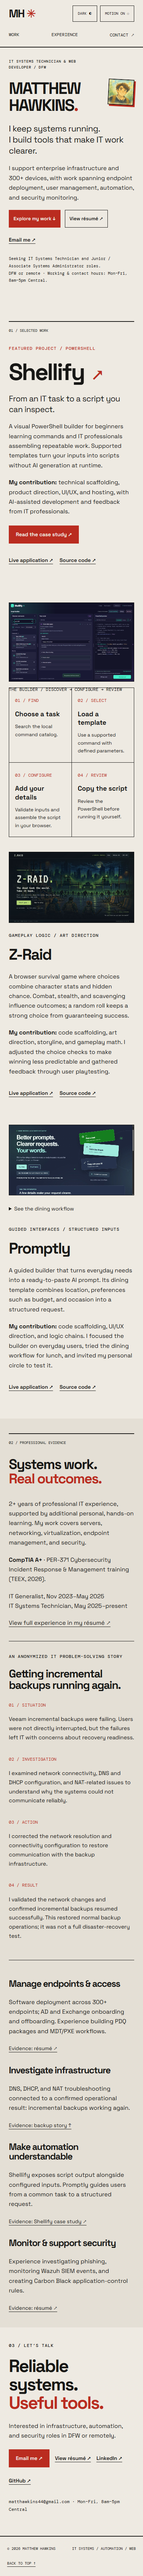
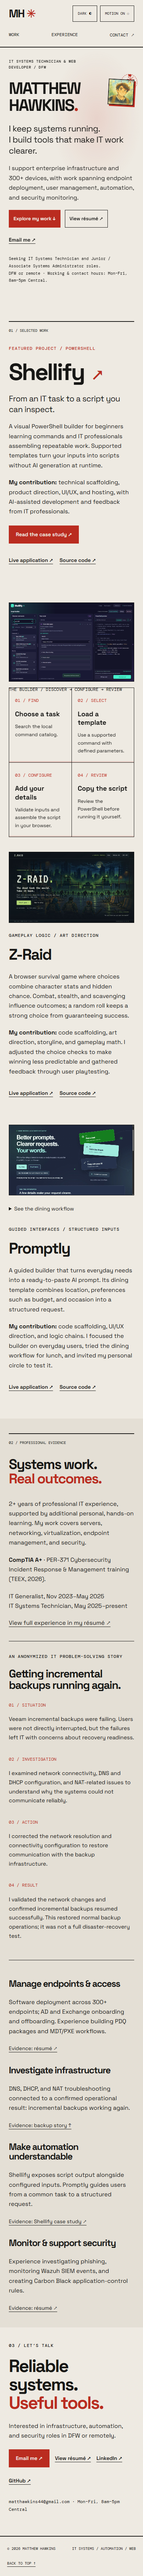
Restore restrained editorial motion and accessible animation controls

diff --git a/style.css b/style.css
@@ -624,3 +624,126 @@ footer {
     object-fit:contain;
     margin:0
 }
+
+/* Editorial motion: a quiet backdrop, the original star, and purposeful feedback. */
+.hero, .case-hero {
+    position: relative;
+    isolation: isolate;
+}
+.hero::before, .case-hero::before {
+    content: '';
+    position: absolute;
+    inset: 12% 2% 8% 48%;
+    z-index: -1;
+    pointer-events: none;
+    background: radial-gradient(ellipse, color-mix(in srgb, var(--red) 12%, transparent), transparent 68%);
+    animation: ambient-drift 18s ease-in-out infinite alternate;
+}
+.hero::after, .case-hero::after {
+    content: '';
+    position: absolute;
+    inset: 18px 5% 24px 58%;
+    z-index: -1;
+    pointer-events: none;
+    background-image: radial-gradient(var(--ink) .7px, transparent .7px);
+    background-size: 24px 24px;
+    opacity: .09;
+    mask-image: radial-gradient(ellipse, #000, transparent 70%);
+}
+.portrait::before {
+    content: '';
+    position: absolute;
+    width: 108px;
+    height: 108px;
+    right: -19px;
+    top: -34px;
+    border: 1px dashed var(--red);
+    border-radius: 50%;
+    pointer-events: none;
+    animation: accent-orbit 40s linear infinite;
+    background: radial-gradient(circle at 50% 3%, var(--red) 0 4px, transparent 5px);
+}
+.portrait::after {
+    content: '✳';
+    position: absolute;
+    right: 10px;
+    top: -30px;
+    color: var(--red);
+    font-size: 58px;
+    line-height: 1;
+    pointer-events: none;
+    animation: accent-orbit 60s linear infinite reverse;
+}
+.reading-progress {
+    position: fixed;
+    inset: 0 0 auto;
+    height: 3px;
+    background: var(--red);
+    transform-origin: left;
+    z-index: 20;
+    pointer-events: none;
+}
+.wordmark span { transition: transform .5s ease; }
+.wordmark:hover span, .wordmark:focus-visible span { transform: rotate(90deg); }
+.site-header nav a { position: relative; }
+.site-header nav a::after {
+    content: '';
+    position: absolute;
+    bottom: 4px;
+    left: 0;
+    width: 100%;
+    height: 2px;
+    background: var(--red);
+    transform: scaleX(0);
+    transform-origin: left;
+    transition: transform .22s ease;
+}
+.site-header nav a:hover::after, .site-header nav a:focus-visible::after { transform: scaleX(1); }
+.featured figure img, .supporting-grid > article > img {
+    transition: transform .35s ease, box-shadow .35s ease;
+}
+.featured figure:hover img, .featured figure:focus-within img,
+.supporting-grid > article:hover > img, .supporting-grid > article:focus-within > img {
+    transform: translateY(-4px);
+    box-shadow: 5px 5px 0 color-mix(in srgb, var(--red) 45%, transparent);
+}
+.logic-chain li::before {
+    content: '';
+    position: absolute;
+    left: 0;
+    bottom: 0;
+    width: 100%;
+    height: 3px;
+    background: var(--red);
+    opacity: .15;
+    animation: workflow-step 12s ease-in-out infinite;
+}
+.logic-chain li:nth-child(2)::before { animation-delay: 3s; }
+.logic-chain li:nth-child(3)::before { animation-delay: 6s; }
+.logic-chain li:nth-child(4)::before { animation-delay: 9s; }
+.arrived { animation: section-arrive .65s ease-out both; }
+@keyframes ambient-drift { to { transform: translate(-18px, 12px) scale(1.05); } }
+@keyframes accent-orbit { to { transform: rotate(360deg); } }
+@keyframes workflow-step { 0%, 25%, 100% { opacity: .15; } 8%, 17% { opacity: .8; } }
+@keyframes section-arrive { from { transform: translateY(12px); } to { transform: translateY(0); } }
+@media (max-width: 600px) {
+    .portrait::before { width: 42px; height: 42px; right: -8px; top: -15px; }
+    .portrait::after { font-size: 28px; top: -15px; right: -2px; }
+    .hero::before { inset: 0 0 45% 35%; }
+}
+/* Include pseudo-elements so decorative loops obey both preference controls. */
+:root[data-motion=paused] *,
+:root[data-motion=paused] *::before,
+:root[data-motion=paused] *::after {
+    animation: none !important;
+    transition: none !important;
+    scroll-behavior: auto !important;
+}
+:root[data-motion=paused] .arrived,
+:root[data-motion=paused] .wordmark span,
+:root[data-motion=paused] .featured figure img,
+:root[data-motion=paused] .supporting-grid > article > img { transform: none !important; }
+@media (prefers-reduced-motion: reduce) {
+    *, *::before, *::after { animation: none !important; transition: none !important; scroll-behavior: auto !important; }
+    .arrived, .wordmark span, .featured figure img, .supporting-grid > article > img { transform: none !important; }
+}

diff --git a/script.js b/script.js
@@ -42,6 +42,35 @@ systemMotion.addEventListener('change', () => {
 });
 updateDisplay();
 
+// Scroll feedback is decorative: content never depends on animation to appear.
+const progress = document.createElement('div');
+progress.className = 'reading-progress';
+progress.setAttribute('aria-hidden', 'true');
+document.body.prepend(progress);
+let progressFrame = 0;
+function updateProgress() {
+  const distance = root.scrollHeight - innerHeight;
+  progress.style.transform = `scaleX(${distance > 0 ? Math.min(1, Math.max(0, scrollY / distance)) : 0})`;
+  progressFrame = 0;
+}
+addEventListener('scroll', () => {
+  if (!progressFrame) progressFrame = requestAnimationFrame(updateProgress);
+}, {passive: true});
+addEventListener('resize', updateProgress);
+addEventListener('load', updateProgress);
+if ('ResizeObserver' in window) new ResizeObserver(updateProgress).observe(document.body);
+updateProgress();
+
+if ('IntersectionObserver' in window) {
+  const observer = new IntersectionObserver(entries => {
+    for (const entry of entries) {
+      if (!entry.isIntersecting) continue;
+      if (root.dataset.motion !== 'paused') entry.target.classList.add('arrived');
+      observer.unobserve(entry.target);
+    }
+  }, {threshold: 0.12});
+  document.querySelectorAll('.featured, .supporting-grid article, .story, .capabilities article, .case-row, .sample').forEach(item => observer.observe(item));
+}
 
 document.querySelector('#year').textContent = new Date().getFullYear();
 const copyButton = document.querySelector('#copy-sample');
